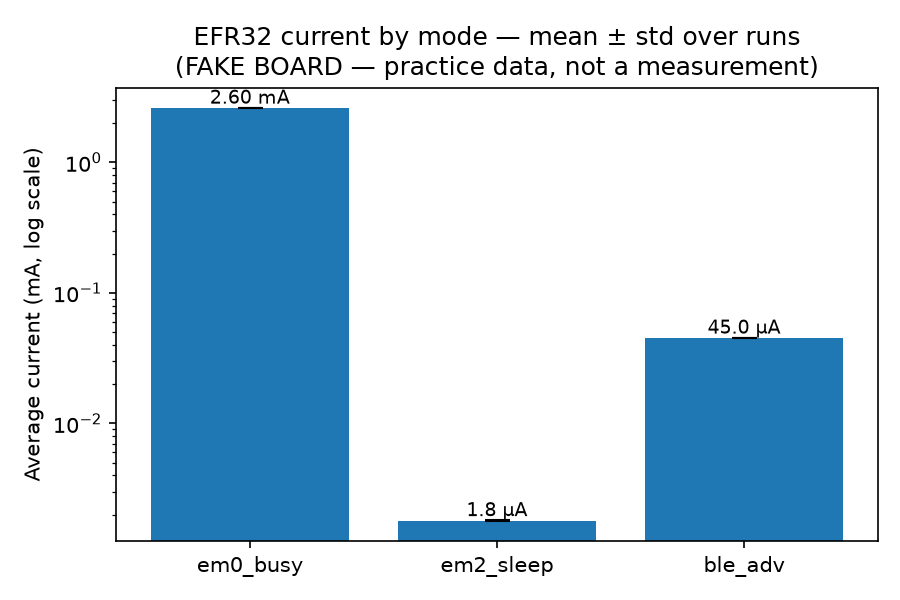
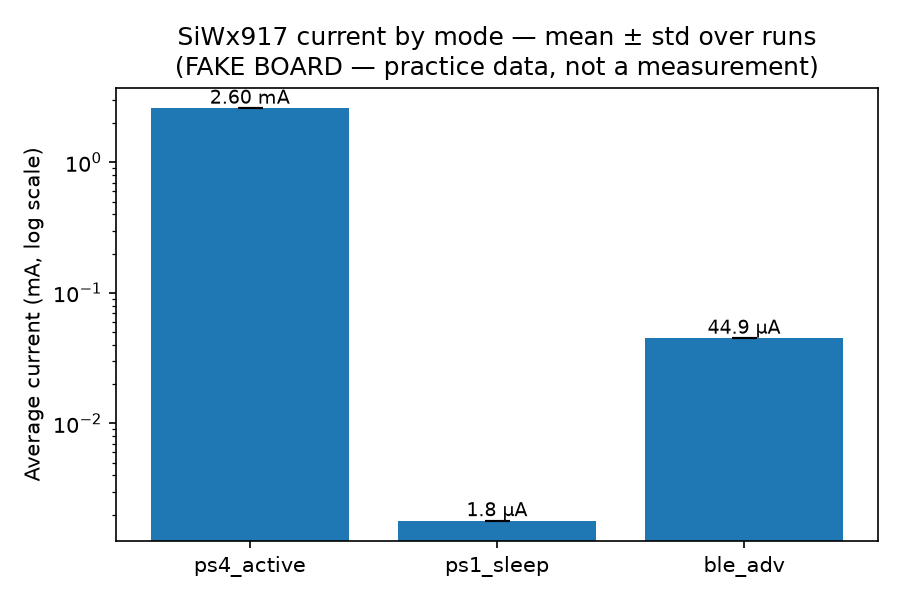
Rename harness from EFR32/xG24 to SiWx917
Power-state names now match the SiWG917 M4 states in Silicon Labs' docs
rather than EFR32 energy modes:

  em0_busy  -> ps4_active  (PS4, highest-performance active state)
  em2_sleep -> ps1_sleep   (PS1 ULP: CPU off, ULP peripherals + 32 kHz,
                            RAM retained -- the true EM2 analogue; PS0 is
                            deep-sleep WITHOUT retention, closer to EM4)
  ble_adv   -> unchanged   (SiWx917 has BLE 5.4)

Also corrects two things a pure find-and-replace would have missed:

- SiWx917 boots RPS images, not .s37/.hex. Device.flash() now calls
  `commander rps load`, config points at .rps, and fake_commander answers
  `rps load` only -- so a harness still calling `flash` fails on the fake
  board exactly as it would on the bench.
- Kit is SiWx917-PK6031A (BRD4338A radio board on a BRD4002A WPK
  mainboard, which is where the AEM lives), not xG24-PK6010A.

RAILtest is a RAIL/EFR32 tool; Level 2 roadmap and requirements.txt now
refer to the WiSeConnect PER examples instead.

docs/sample-run/ regenerated so the committed sample matches the renamed
modes; the PS1 relative spread quoted in its README moved 0.27% -> 0.22%
to match the new capture.

diff --git a/tools/fake_commander.py b/tools/fake_commander.py
@@ -5,17 +5,22 @@ fake_commander.py — a CARDBOARD BOARD.
 PLAIN ENGLISH
 -------------
 You can't always have the real kit with you (it's in the college lab).  This
-script pretends to be Simplicity Commander: it accepts the same commands and
-prints the same shaped output, with made-up numbers.  That lets you write and
-test the Python harness on the bus, then swap in the real `commander` on PATH
-when you are in the lab.  NOTHING here is a real measurement.
+script pretends to be Simplicity Commander driving a SiWx917 kit: it accepts
+the same commands and prints the same shaped output, with made-up numbers.
+That lets you write and test the Python harness on the bus, then swap in the
+real `commander` on PATH when you are in the lab.  NOTHING here is a real
+measurement.
 
 It remembers what firmware was "flashed" to each serial number (in a small
 file in /tmp) so that the pretend current depends on the pretend firmware,
 which is what the real chip does too:
-    *em2*  -> a few microamps (deep sleep)
+    *ps1*  -> a few microamps (PS1 ULP sleep, CPU off, RAM retained)
     *adv*  -> tens of microamps average (BLE advertising)
-    *em0*  -> a few milliamps (CPU awake)
+    *ps4*  -> a few milliamps (PS4 active, CPU running)
+
+Note it only answers to `rps load`, not `flash`.  That is deliberate: the
+SiWx917 bootloader accepts RPS images only, so a harness that still called
+`commander flash foo.s37` would fail here exactly as it would on the bench.
 """
 
 import json
@@ -24,14 +29,14 @@ import sys
 import time
 from pathlib import Path
 
-STATE_DIR = Path("/tmp/fake_efr32")
+STATE_DIR = Path("/tmp/fake_siwx917")
 STATE_DIR.mkdir(exist_ok=True)
 
 # (mean mA, std mA) for each pretend firmware type — ILLUSTRATIVE ONLY
 PROFILES = {
-    "em2": (0.0018, 0.00020),
+    "ps1": (0.0018, 0.00020),
     "adv": (0.0450, 0.00400),
-    "em0": (2.6000, 0.02000),
+    "ps4": (2.6000, 0.02000),
 }
 
 
@@ -41,7 +46,7 @@ def state_file(serial: str) -> Path:
 
 def load(serial: str) -> dict:
     p = state_file(serial)
-    return json.loads(p.read_text()) if p.exists() else {"firmware": "em0"}
+    return json.loads(p.read_text()) if p.exists() else {"firmware": "ps4"}
 
 
 def save(serial: str, st: dict) -> None:
@@ -52,7 +57,7 @@ def profile_for(firmware_name: str):
     for key, prof in PROFILES.items():
         if key in firmware_name.lower():
             return prof
-    return PROFILES["em0"]
+    return PROFILES["ps4"]
 
 
 def main(argv):
@@ -74,8 +79,9 @@ def main(argv):
     if words[:2] == ["adapter", "probe"]:
         print("Kit Information:")
         print("=" * 39)
-        print("Kit Name        : EFR32xG24 Wireless Pro Kit (FAKE)")
-        print("Kit Part Number : xG24-PK6010A")
+        print("Kit Name        : SiWx917 Wi-Fi 6 and Bluetooth LE Pro Kit (FAKE)")
+        print("Kit Part Number : SiWx917-PK6031A")
+        print("Radio Board     : BRD4338A")
         print(f"J-Link Serial   : {serial}")
         print("Debug Mode      : MCU")
         print("AEM Supported   : 1")
@@ -83,14 +89,14 @@ def main(argv):
         print("DONE")
         return 0
 
-    if words[:1] == ["flash"]:
-        fw = words[1] if len(words) > 1 else "unknown"
+    if words[:2] == ["rps", "load"]:
+        fw = words[2] if len(words) > 2 else "unknown"
         st["firmware"] = Path(fw).name
         save(serial, st)
-        print(f"Parsing file {fw}...")
-        print("Writing 65536 bytes starting at address 0x08000000")
-        print("Comparing range 0x08000000 - 0x0800FFFF (64 KiB)")
-        print("Programming range 0x08000000 - 0x0800FFFF (64 KiB)")
+        print(f"Parsing RPS file {fw}...")
+        print("RPS header OK, image type M4, 65536 bytes")
+        print("Erasing flash...")
+        print("Writing image to flash...")
         print("DONE")
         return 0
 
@@ -99,7 +105,7 @@ def main(argv):
         print("DONE")
         return 0
 
-    mean, std = profile_for(st.get("firmware", "em0"))
+    mean, std = profile_for(st.get("firmware", "ps4"))
 
     if words[:2] == ["aem", "measure"]:
         w = int(opts.get("windowlength", "100"))

diff --git a/dvharness/device.py b/dvharness/device.py
@@ -1,12 +1,12 @@
 """
-device.py  —  the "remote control" for one Silicon Labs board.
+device.py  —  the "remote control" for one Silicon Labs SiWx917 board.
 
 PLAIN ENGLISH
 -------------
 Silicon Labs gives you a command-line tool called Simplicity Commander.
 You type things like:
 
-    commander flash app.s37 --serialno 440123456
+    commander rps load app.rps --serialno 440123456
     commander device reset --serialno 440123456
     commander aem measure --windowlength 100 --serialno 440123456
 
@@ -17,7 +17,7 @@ you mean when two are plugged in.
 This file is a robot that types those commands for you and READS the answer
 back into Python numbers, so a test can say:
 
-    dut.flash("firmware/em2_sleep.s37")
+    dut.flash("firmware/ps1_sleep.rps")
     dut.reset()
     amps = dut.measure_current(window_ms=100)["current_mA"]
 
@@ -96,11 +96,17 @@ class Device:
         return self.probe().get("AEM Supported", "0").strip() == "1"
 
     def flash(self, firmware: str | Path) -> None:
-        """Put a new program (.s37 / .hex / .bin) into the chip."""
+        """Put a new program into the chip.  Wraps `commander rps load`.
+
+        SiWx917 parts boot from an RPS image (.rps), not a raw .s37/.hex —
+        the bootloader reads an RPS header to check the image before running
+        it.  Build the app in Studio/VS Code, convert it with
+        `commander rps create`, and point config.yaml at the .rps.
+        """
         firmware = Path(firmware)
         if not firmware.exists():
             raise FileNotFoundError(firmware)
-        self._run("flash", str(firmware))
+        self._run("rps", "load", str(firmware))
 
     def reset(self) -> None:
         """Switch the chip off and on again (hardware reset via the debugger)."""

diff --git a/tests/test_02_power.py b/tests/test_02_power.py
@@ -1,7 +1,7 @@
 """
 test_02_power.py — Level 1 of the harness: how much electricity does the chip drink?
 
-For each firmware mode (CPU busy, deep sleep, BLE advertising):
+For each firmware mode (PS4 active, PS1 ULP sleep, BLE advertising):
   flash -> reset -> wait to settle -> record 2 s of current at 1000 samples/s
   ... repeat that whole cycle 5 times (5 INDEPENDENT runs, not 5 slices of one run)
   -> mean, std, min, max of the per-run means
@@ -21,11 +21,11 @@ import pytest
 
 from dvharness.stats import summarize
 
-MODES = ["em0_busy", "em2_sleep", "ble_adv"]
+MODES = ["ps4_active", "ps1_sleep", "ble_adv"]
 
 
 def _ensure_placeholder(fw: Path) -> None:
-    # Real lab: these are real .s37 files you built. Fake board: any file works.
+    # Real lab: these are real .rps images you built. Fake board: any file works.
     fw.parent.mkdir(exist_ok=True)
     if not fw.exists():
         fw.write_bytes(b"placeholder")
@@ -89,7 +89,7 @@ def test_99_make_plot(results_dir, cfg):
     ax.bar(modes, means, yerr=stds, capsize=6)
     ax.set_yscale("log")
     ax.set_ylabel("Average current (mA, log scale)")
-    ax.set_title("EFR32 current by mode — mean ± std over runs"
+    ax.set_title("SiWx917 current by mode — mean ± std over runs"
                  + ("\n(FAKE BOARD — practice data, not a measurement)" if is_fake else ""))
     for i, (m, s) in enumerate(zip(means, stds)):
         ax.text(i, m, f"{m*1000:.1f} µA" if m < 1 else f"{m:.2f} mA",

diff --git a/tests/test_01_smoke.py b/tests/test_01_smoke.py
@@ -22,7 +22,7 @@ def test_kit_has_current_meter(dut):
 
 
 def test_flash_and_reset(dut, cfg):
-    fw = Path(cfg["firmware"]["em0_busy"])
+    fw = Path(cfg["firmware"]["ps4_active"])
     fw.parent.mkdir(exist_ok=True)
     if not fw.exists():
         fw.write_bytes(b"placeholder")   # fake board doesn't care about contents

diff --git a/README.md b/README.md
@@ -1,4 +1,4 @@
-# EFR32 DV Harness — Level 1 (device control + power)
+# SiWx917 DV Harness — Level 1 (device control + power)
 
 ## What this is, in one breath
 A laptop is plugged into a Silicon Labs board by USB. This Python program
@@ -17,13 +17,13 @@ statistics, the limit checks and the reporting work end to end. It is **not a
 measurement of any physical device** and no number here should be quoted as one.
 
 Switching to real hardware is one line in `config.yaml` (`commander: "commander"`)
-plus real serial numbers and real `.s37` images. No test code changes.
+plus real serial numbers and real `.rps` images. No test code changes.
 
 ![Sample output — simulated](docs/sample-run/power_by_mode.png)
 
-*One run against the fake device: EM0 2.600 mA, EM2 1.80 uA, BLE advertising
-45.0 uA, each a mean over five independent flash-reset-settle-measure cycles.
-See [docs/sample-run/](docs/sample-run/).*
+*One run against the fake device: PS4 active 2.600 mA, PS1 sleep 1.80 uA, BLE
+advertising 44.9 uA, each a mean over five independent flash-reset-settle-measure
+cycles. See [docs/sample-run/](docs/sample-run/).*
 
 ## Folder map
 ```
@@ -32,9 +32,9 @@ dvharness/device.py         <- the "remote control" around Simplicity Commander
 dvharness/stats.py          <- mean / std / min / max helper
 tests/conftest.py           <- gives every test a ready-made board + results folder
 tests/test_01_smoke.py      <- can we talk to the kit, flash it, reset it?
-tests/test_02_power.py      <- Level 1: current in EM0 / EM2 / BLE-advertising
+tests/test_02_power.py      <- Level 1: current in PS4 / PS1 / BLE-advertising
 tools/fake_commander.py     <- a pretend board so you can practise without hardware
-firmware/                   <- put your built .s37 files here
+firmware/                   <- put your built .rps images here
 results/<timestamp>/        <- raw CSVs, per-run table, summary JSON, chart, JUnit XML
 ```
 
@@ -48,20 +48,26 @@ same shaped output as the real tool with made-up numbers.
 
 ## Switch to the REAL board (in the lab)
 1. Install Simplicity Studio 6 → it brings Simplicity Commander. Add the folder
-   containing `commander` (or `commander.exe`) to your PATH.
+   containing `commander` (or `commander.exe`) to your PATH. Use a recent build:
+   older Commander versions do not understand SiWx917 RPS images.
 2. Plug the kit in. Find its serial: `commander adapter probe` (or read the sticker).
 3. Edit `config.yaml`:
    - `commander: "commander"`
    - `boards.dut.serial: "<your J-Link serial>"`
-4. Build the three firmware images in Studio/VS Code and copy the `.s37` files
-   to `firmware/` with the names in `config.yaml`. Good starting examples in the SDK:
-   a bare-metal blink/busy loop (EM0), an energy-mode / power-manager example
-   that sits in EM2 with the RTC running, and "Bluetooth – SoC Empty" (advertising).
+4. Build the three applications in Studio/VS Code against the WiSeConnect 3 SDK,
+   convert each to an RPS image (`commander rps create`), and copy the `.rps`
+   files to `firmware/` with the names in `config.yaml`. Starting points in the SDK:
+   the `mcu_powerstate` demo covers both the PS4 active state and the PS1 ULP
+   sleep state, and a Bluetooth LE advertising example covers the third mode.
+   **A SiWx917 will not boot a raw `.s37`/`.hex`** — the bootloader checks an RPS
+   header first, so the conversion step is not optional.
 5. `python3 -m pytest` — same command, real numbers.
 
 ## If `adapter probe` says `AEM Supported : 0`
-Your kit's on-board debugger has no current meter. Options: borrow a Wireless
-Pro Kit mainboard (BRD4002A, has AEM), or use an external meter such as a
+Your kit's on-board debugger has no current meter. On SiWx917 the AEM lives on
+the BRD4002A Wireless Pro Kit mainboard, so a bare BRD4338A radio board on a
+plain adapter will report `0`. Options: put the radio board on a BRD4002A WPK
+(the SiWx917-PK6031A Pro Kit bundles both), or use an external meter such as a
 Nordic PPK2 (has a Python API). Then replace `Device.dump_current()` with a
 call to that meter; the tests don't change.
 
@@ -74,7 +80,8 @@ call to that meter; the tests don't change.
 - Results folders are timestamped and never overwritten.
 
 ## What comes next (not in this folder yet)
-- Level 2: `test_03_per_sweep.py` — two boards running RAILtest, packet error
-  rate vs transmit power, plus a Wi-Fi interference comparison.
+- Level 2: `test_03_per_sweep.py` — two boards running the WiSeConnect PER
+  (packet error rate) examples, PER vs transmit power, plus a Wi-Fi
+  interference comparison.
 - Level 3: `test_04_ota_loop.py` — 100 over-the-air update cycles, interrupted
   update + rollback, overnight soak, flaky-test quarantine.

diff --git a/docs/sample-run/README.md b/docs/sample-run/README.md
@@ -2,7 +2,7 @@
 
 These files are the output of one complete run of the harness against the
 **simulated** Simplicity Commander (`tools/fake_commander.py`), captured on
-2026-08-19. They are committed so a reader can see the shape of the output
+2026-08-20. They are committed so a reader can see the shape of the output
 without installing anything or owning a board.
 
 **No physical device was measured.** Hardware access is pending a college MOU.
@@ -20,9 +20,9 @@ the statistics are computed over independent runs rather than slices of one
 run, the limits are read from `config.yaml`, and the whole thing runs
 unattended and writes its own report.
 
-One thing worth noticing, and worth being upfront about: the EM2 error bar
-here is about 0.27% of the reading. No real on-board AEM resolves single-digit
-microamps that tightly — at ~1.8 uA the instrument's own error is a large
-fraction of the value. That unrealistically tight spread is an artifact of the
-simulator, and it is exactly the number that will get worse, and more honest,
-on real hardware.
+One thing worth noticing, and worth being upfront about: the PS1 sleep error
+bar here is about 0.22% of the reading. No real on-board AEM resolves
+single-digit microamps that tightly — at ~1.8 uA the instrument's own error is
+a large fraction of the value. That unrealistically tight spread is an artifact
+of the simulator, and it is exactly the number that will get worse, and more
+honest, on real hardware.

diff --git a/CLAUDE.md b/CLAUDE.md
@@ -1,9 +1,12 @@
-# EFR32 DV Harness
-Purpose: automated design-validation style measurements on Silicon Labs EFR32 kits
+# SiWx917 DV Harness
+Purpose: automated design-validation style measurements on Silicon Labs SiWx917 kits
 (power, radio link, reliability), runnable unattended, reporting mean ± std.
 
-Hardware: two Silicon Labs xG24 boards over USB. Board "dut" = device under test,
-board "peer" = second radio for link tests. Serial numbers live in config.yaml.
+Hardware: two Silicon Labs SiWx917 boards over USB — BRD4338A radio board on a
+BRD4002A Wireless Pro Kit mainboard (kit SiWx917-PK6031A; the mainboard carries
+the AEM). Board "dut" = device under test, board "peer" = second radio for link
+tests. Serial numbers live in config.yaml. Firmware images are RPS (.rps) and
+Commander loads them with `rps load` — SiWx917 does not boot a raw .s37/.hex.
 Tools on PATH: commander (Simplicity Commander), python3.
 Practice mode: config.yaml commander = "python3 tools/fake_commander.py".
 
